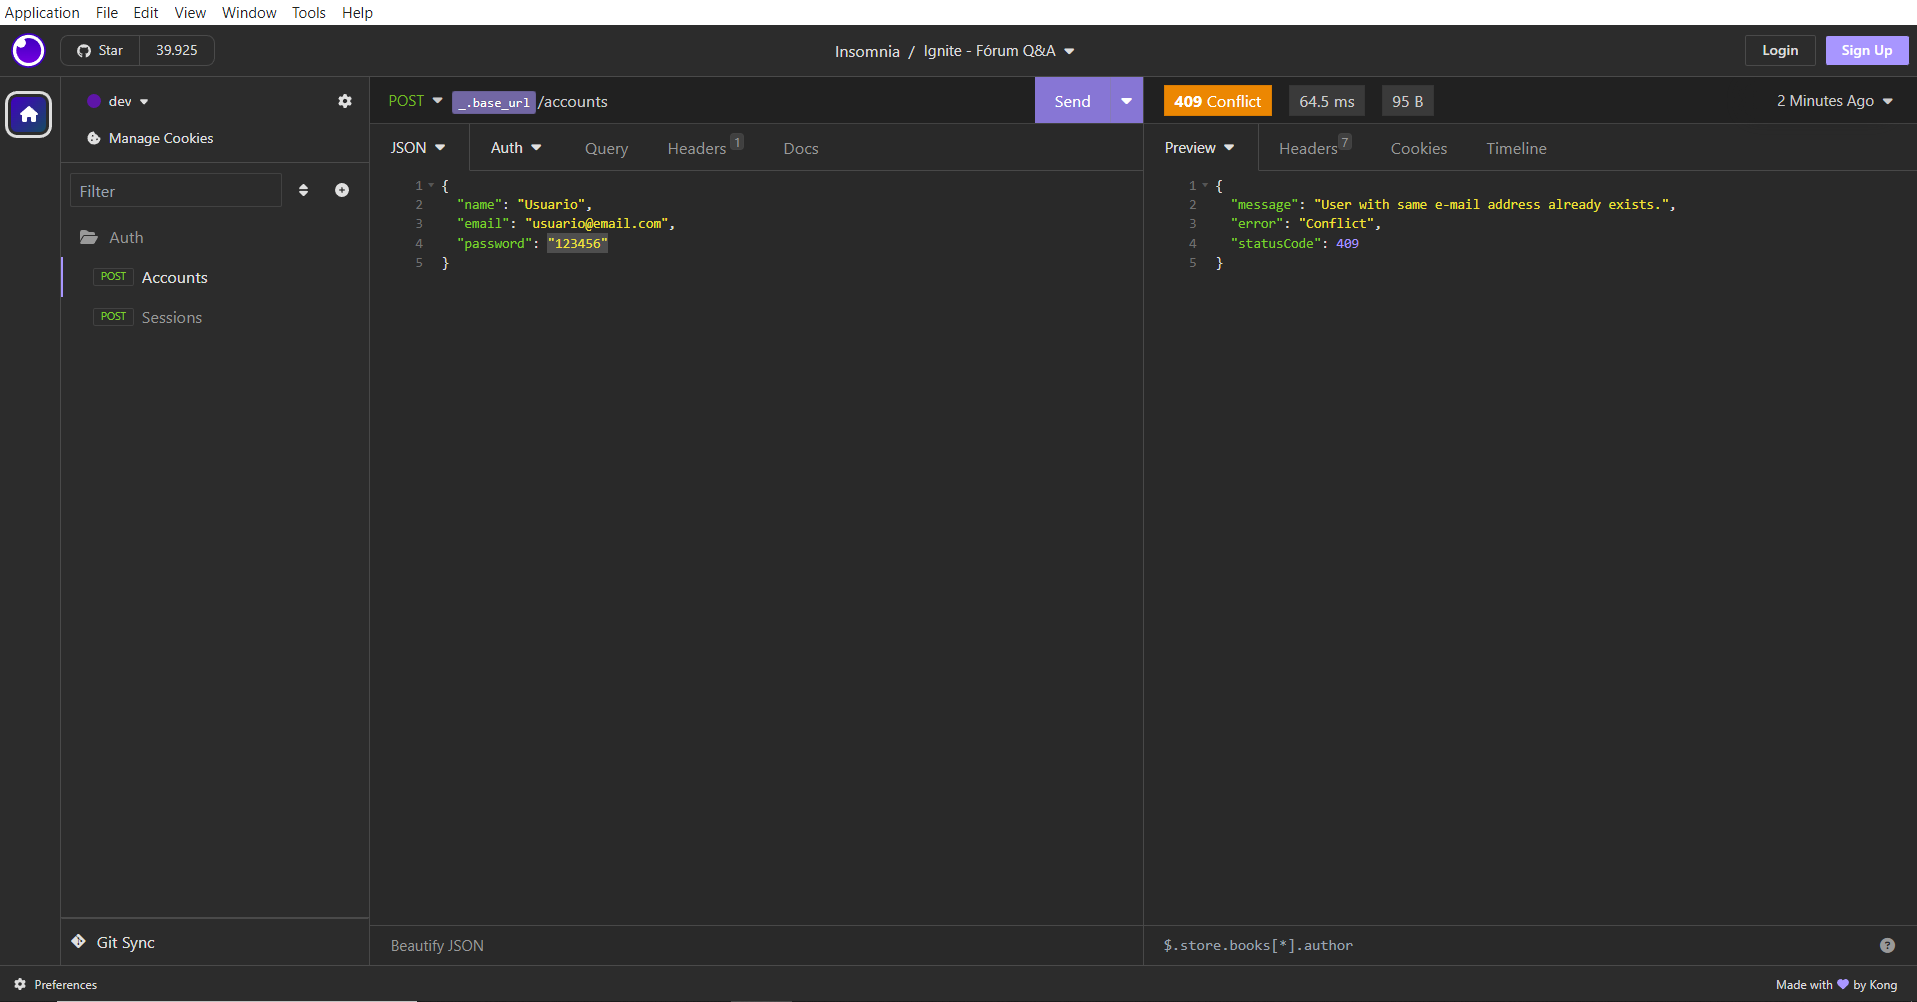
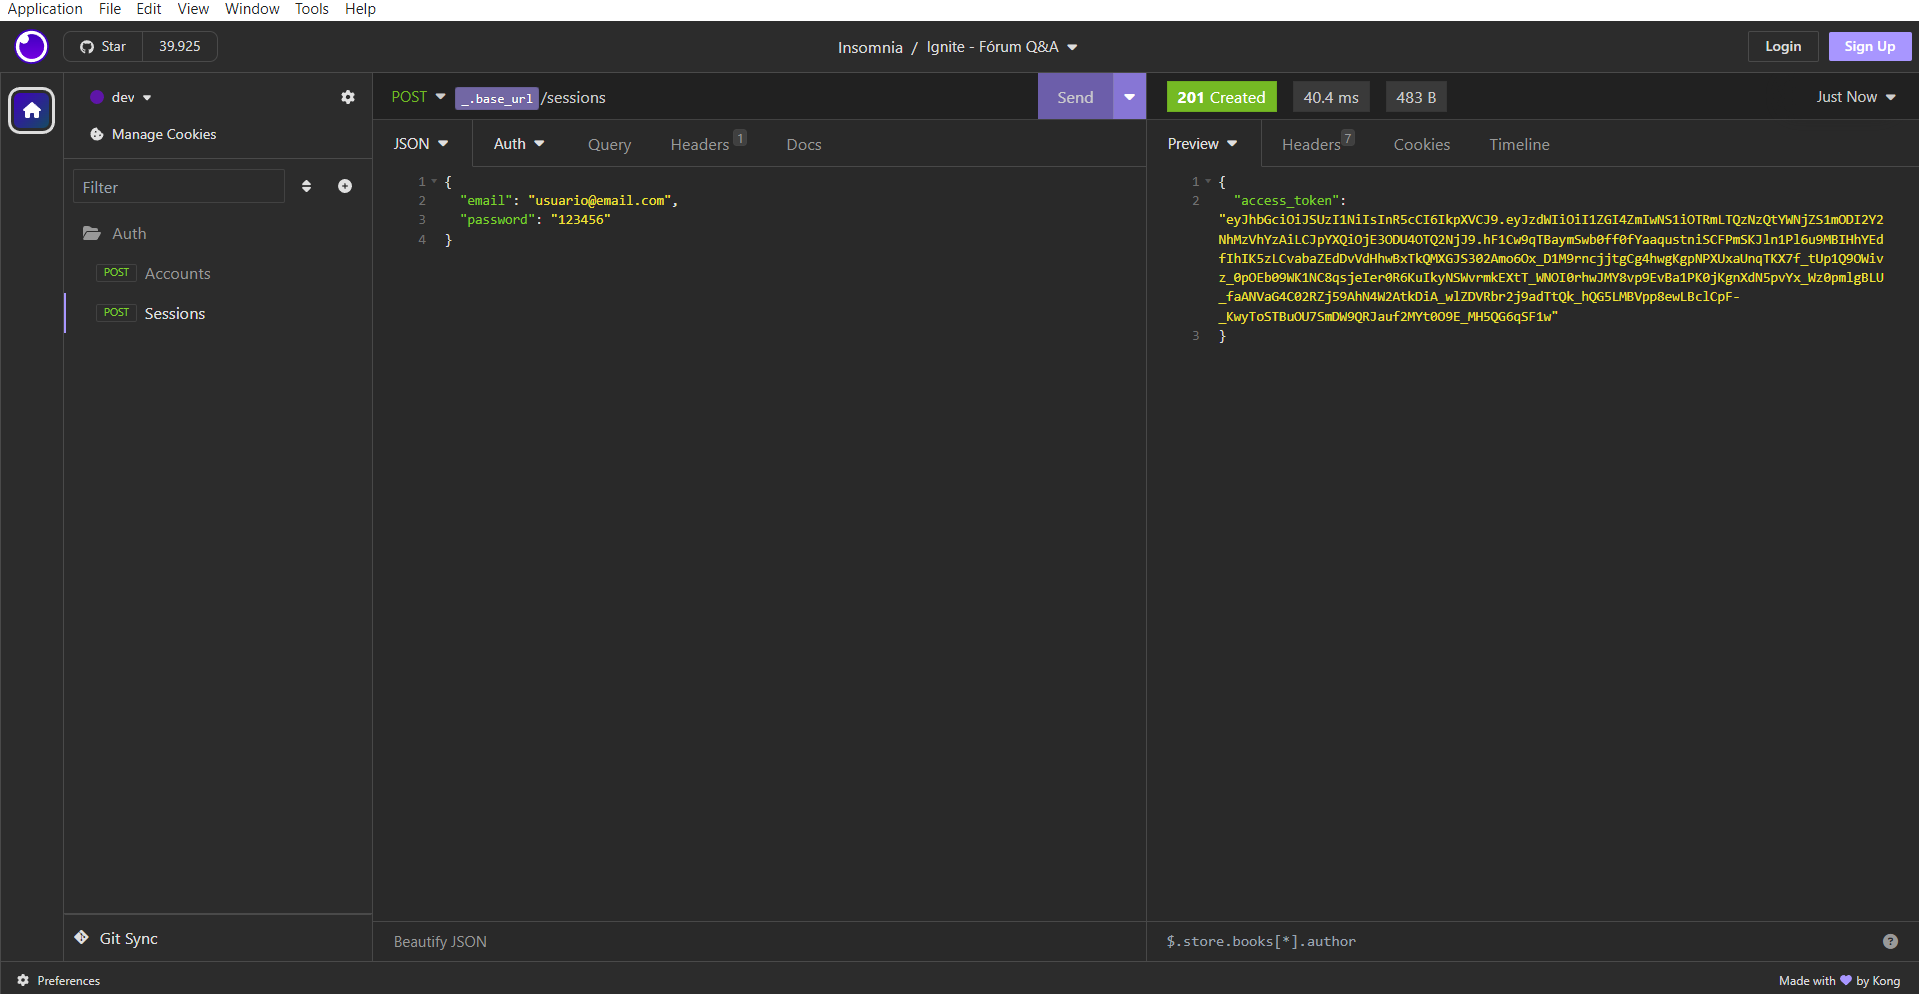
Controller de autenticação

diff --git a/src/controllers/authenticate.controller.ts b/src/controllers/authenticate.controller.ts
@@ -1,0 +1,55 @@
+import {
+  Body,
+  Controller,
+  Post,
+  UnauthorizedException,
+  UsePipes,
+} from '@nestjs/common'
+import { JwtService } from '@nestjs/jwt'
+import { compare } from 'bcryptjs'
+import { ZodValidationPipe } from 'src/pipes/zod-validation-pipe'
+import { PrismaService } from 'src/prisma/prisma.service'
+import { z } from 'zod'
+
+const authenticateBodySchema = z.object({
+  email: z.email(),
+  password: z.string(),
+})
+
+type AuthenticateBodySchema = z.infer<typeof authenticateBodySchema>
+
+@Controller('/sessions')
+export class AuthenticateController {
+  constructor(
+    private prisma: PrismaService,
+    private jwt: JwtService,
+  ) {}
+
+  @Post()
+  @UsePipes(new ZodValidationPipe(authenticateBodySchema))
+  async handle(@Body() body: AuthenticateBodySchema) {
+    const { email, password } = body
+
+    const user = await this.prisma.user.findUnique({
+      where: {
+        email,
+      },
+    })
+
+    if (!user) {
+      throw new UnauthorizedException('User credentials do not match.')
+    }
+
+    const isPasswordValid = await compare(password, user.password)
+
+    if (!isPasswordValid) {
+      throw new UnauthorizedException('User credentials do not match.')
+    }
+
+    const accessToken = this.jwt.sign({ sub: user.id })
+
+    return {
+      access_token: accessToken,
+    }
+  }
+}

diff --git a/src/auth/auth.module.ts b/src/auth/auth.module.ts
@@ -1,0 +1,26 @@
+import { Module } from '@nestjs/common'
+import { ConfigService } from '@nestjs/config'
+import { JwtModule } from '@nestjs/jwt'
+import { PassportModule } from '@nestjs/passport'
+import { Env } from 'src/env'
+
+@Module({
+  imports: [
+    PassportModule,
+    JwtModule.registerAsync({
+      inject: [ConfigService],
+      global: true,
+      useFactory(config: ConfigService<Env, true>) {
+        const privateKey = config.get('JWT_PRIVATE_KEY', { infer: true })
+        const publicKey = config.get('JWT_PUBLIC_KEY', { infer: true })
+
+        return {
+          signOptions: { algorithm: 'RS256' },
+          privateKey: Buffer.from(privateKey, 'base64'),
+          publicKey: Buffer.from(publicKey, 'base64'),
+        }
+      },
+    }),
+  ],
+})
+export class AuthModule {}

diff --git a/src/app.module.ts b/src/app.module.ts
@@ -1,8 +1,10 @@
 import { Module } from '@nestjs/common'
 import { ConfigModule } from '@nestjs/config'
 import { CreateAccountController } from './controllers/create-account.controller'
+import { AuthenticateController } from './controllers/authenticate.controller'
 import { PrismaService } from './prisma/prisma.service'
 import { envSchema } from 'src/env'
+import { AuthModule } from './auth/auth.module'
 
 @Module({
   imports: [
@@ -10,8 +12,9 @@ import { envSchema } from 'src/env'
       validate: (env) => envSchema.parse(env),
       isGlobal: true,
     }),
+    AuthModule,
   ],
-  controllers: [CreateAccountController],
+  controllers: [CreateAccountController, AuthenticateController],
   providers: [PrismaService],
 })
 export class AppModule {}

diff --git a/src/env.ts b/src/env.ts
@@ -2,6 +2,8 @@ import { z } from 'zod'
 
 export const envSchema = z.object({
   DATABASE_URL: z.url(),
+  JWT_PRIVATE_KEY: z.string(),
+  JWT_PUBLIC_KEY: z.string(),
   PORT: z.coerce.number().optional().default(3333),
 })
 

diff --git a/README.md b/README.md
@@ -328,4 +328,32 @@ O **Zod** é uma biblioteca que permite definir esquemas e validar dados (string
 
 O **@nestjs/config** permite acessar e gerenciar as variáveis de ambiente da aplicação.
 
-- `npm i @nestjs/config` instala o módulo @nestjs/config**
+- `npm i @nestjs/config` instala o módulo @nestjs/config
+
+### Autenticação
+
+O **@nestjs/jwt** é um módulo do NestJS que facilita a criação, assinatura e verificação de tokens JWT (JSON Web Tokens), muito utilizados em autenticação e autorização.
+
+- `npm i @nestjs/jwt` instala o módulo @nestjs/jwt
+
+O **@nestjs/passport** integra o Passport ao NestJS, permitindo implementar estratégias de autenticação, como JWT, login com usuário e senha, Google, GitHub, entre outras.
+
+- `npm i @nestjs/passport` instala o módulo @nestjs/passport
+
+O **RS256** (RSA Signature with SHA-256) é um algoritmo de assinatura digital usado em tokens JWT. Ele utiliza um par de chaves assimétricas: uma **chave privada** para assinar o token (criar) e uma **chave pública** para verificar sua autenticidade (validar).
+
+### Gerando as chaves RSA (RS256)
+
+Para utilizar o algoritmo RS256 na autenticação com JWT, é necessário gerar um par de chaves RSA: uma chave privada e uma chave pública.
+
+No Windows, os comandos foram executados no **Git Bash**:
+
+- `openssl genpkey -algorithm RSA -out private_key.pem -pkeyopt rsa_keygen_bits:2048` gera uma chave privada RSA de 2048 bits e salva no arquivo `private_key.pem`. Essa chave será utilizada para assinar os tokens JWT utilizando o algoritmo RS256.
+
+- `openssl rsa -pubout -in private_key.pem -out public_key.pem` extrai a chave pública correspondente à chave privada e salva no arquivo `public_key.pem`. Essa chave será utilizada para validar a assinatura dos tokens JWT e verificar sua autenticidade.
+
+- `base64 -w 0 private_key.pem > private_key-base64.txt` converte o conteúdo da chave privada em Base64 e salva o resultado no arquivo `private_key-base64.txt`. O valor gerado deve ser utilizado na variável de ambiente `JWT_PRIVATE_KEY` do arquivo `.env`.
+
+- `base64 -w 0 public_key.pem > public_key-base64.txt` converte o conteúdo da chave pública em Base64 e salva o resultado no arquivo `public_key-base64.txt`. O valor gerado deve ser utilizado na variável de ambiente `JWT_PUBLIC_KEY` do arquivo `.env`.
+
+O Base64 é utilizado para representar dados binários em formato de texto, facilitando o armazenamento em variáveis de ambiente, como no arquivo `.env`.
